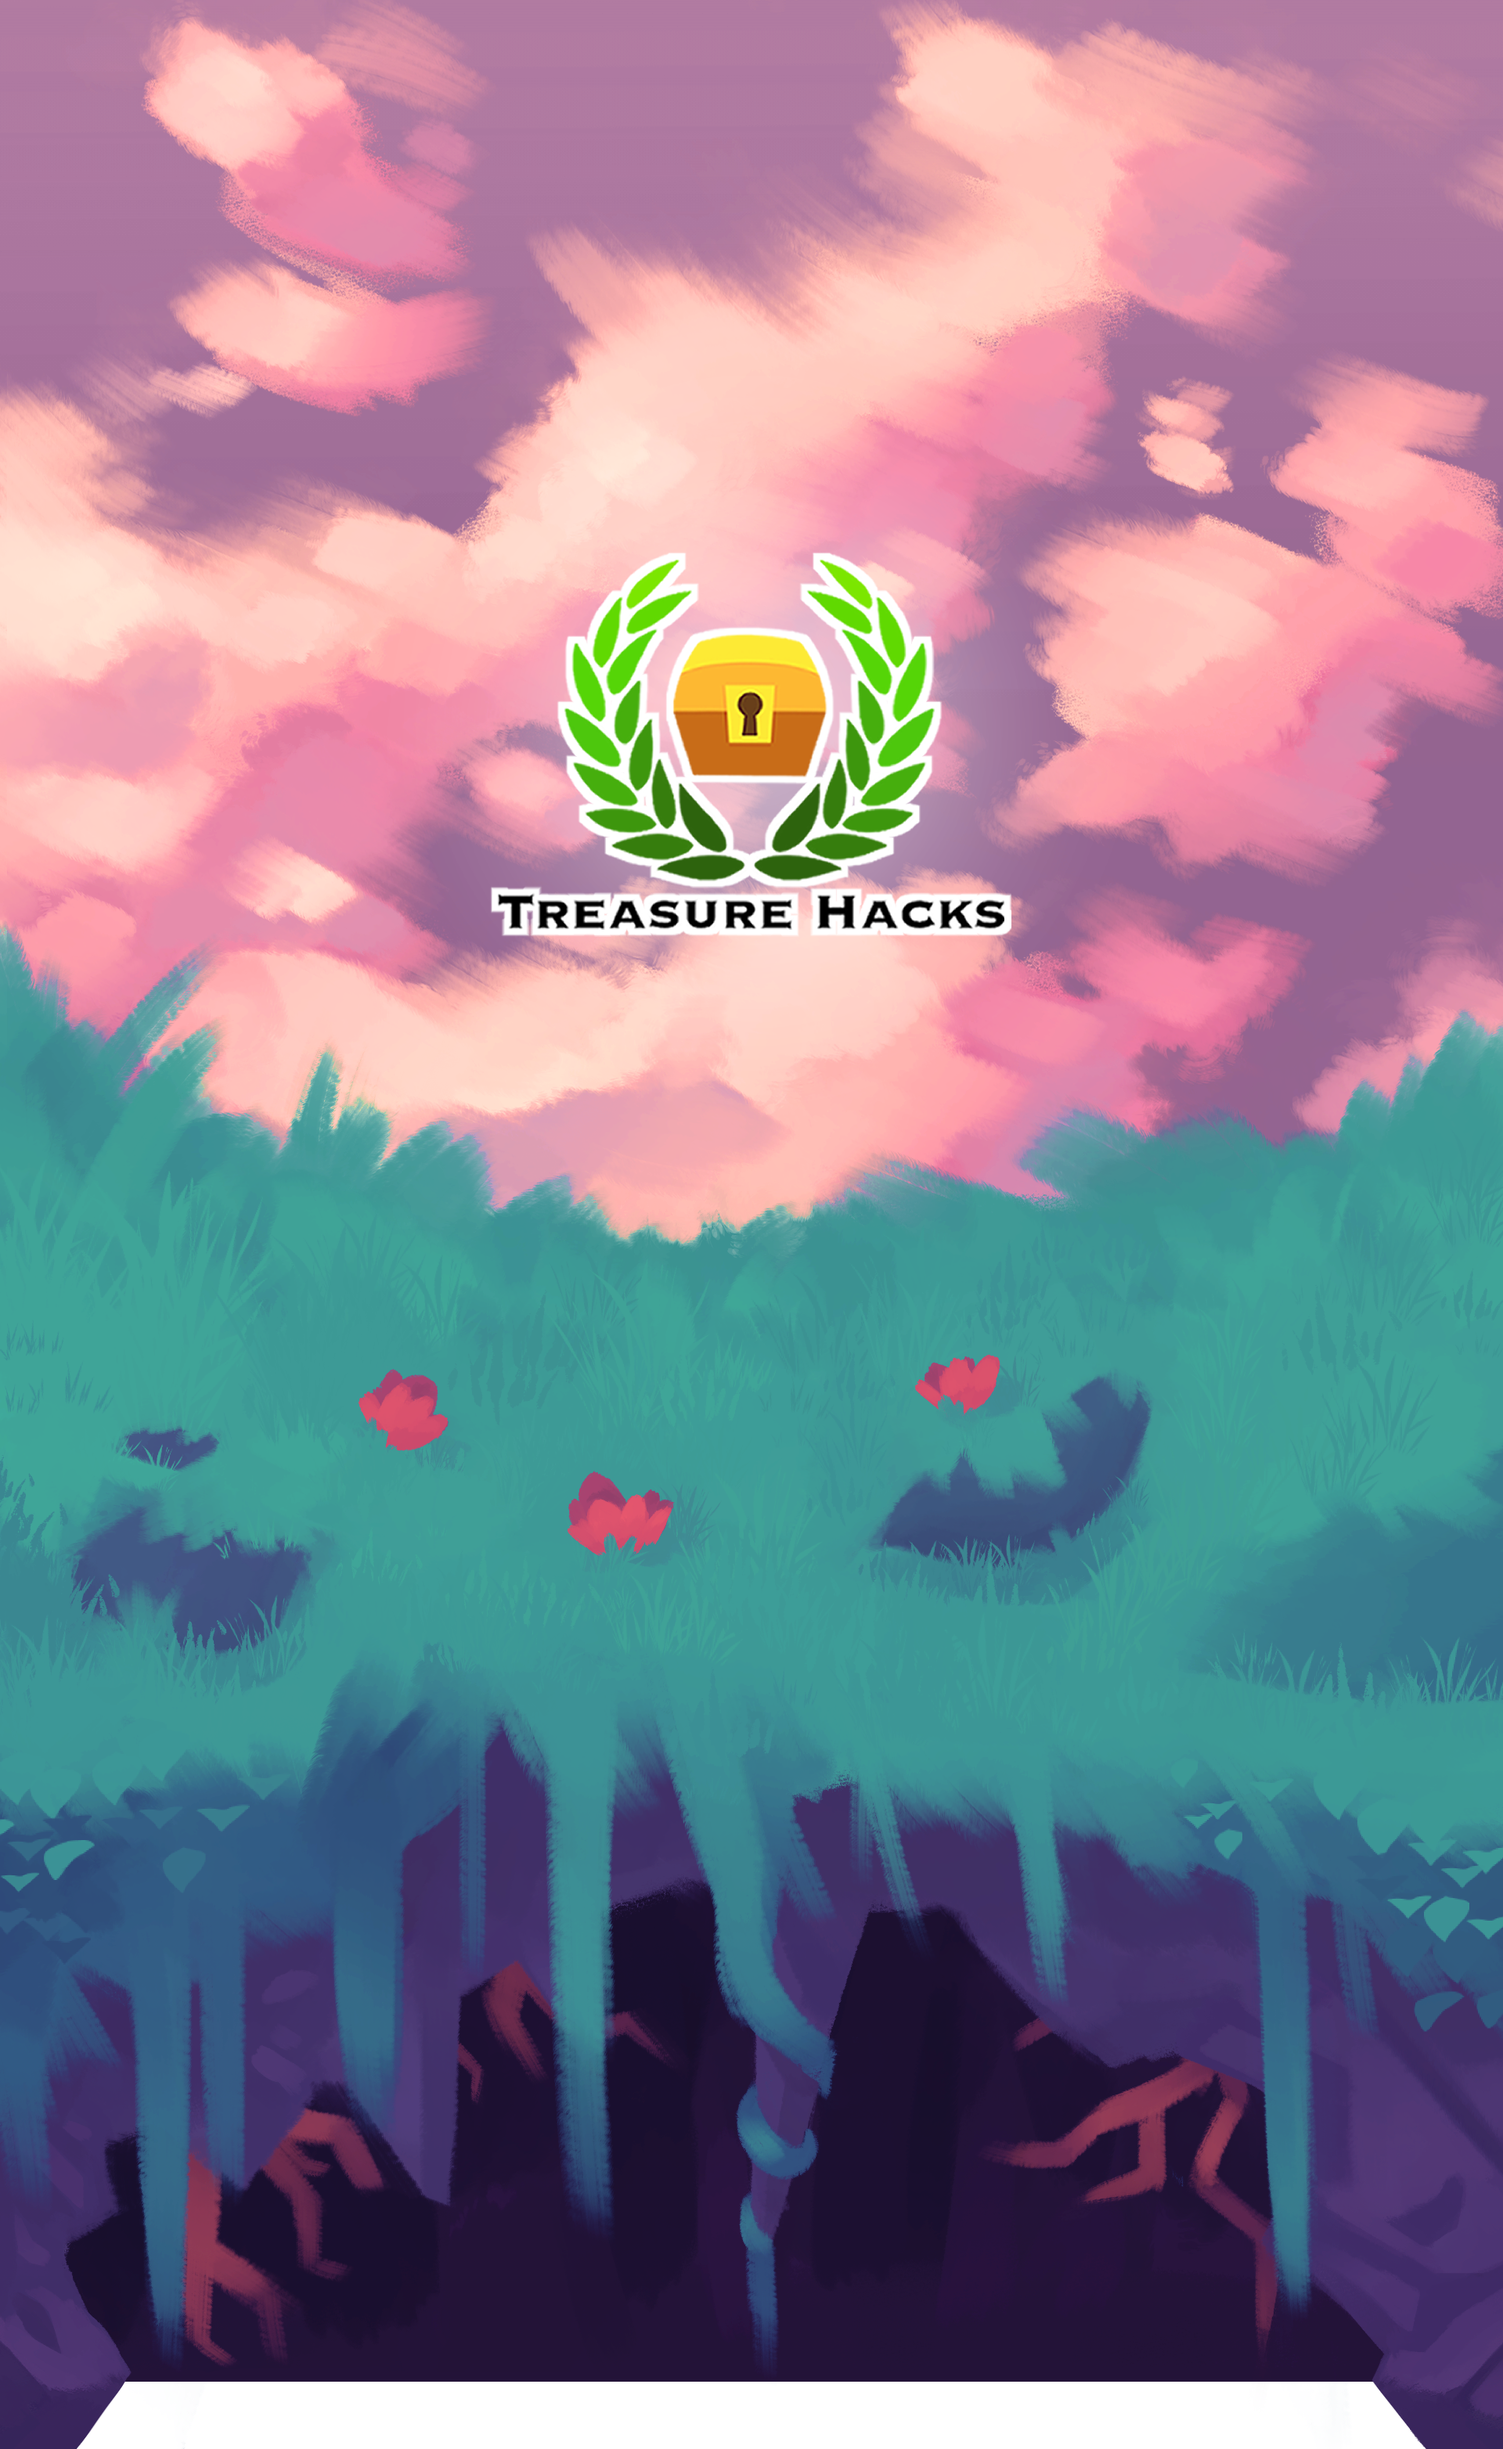
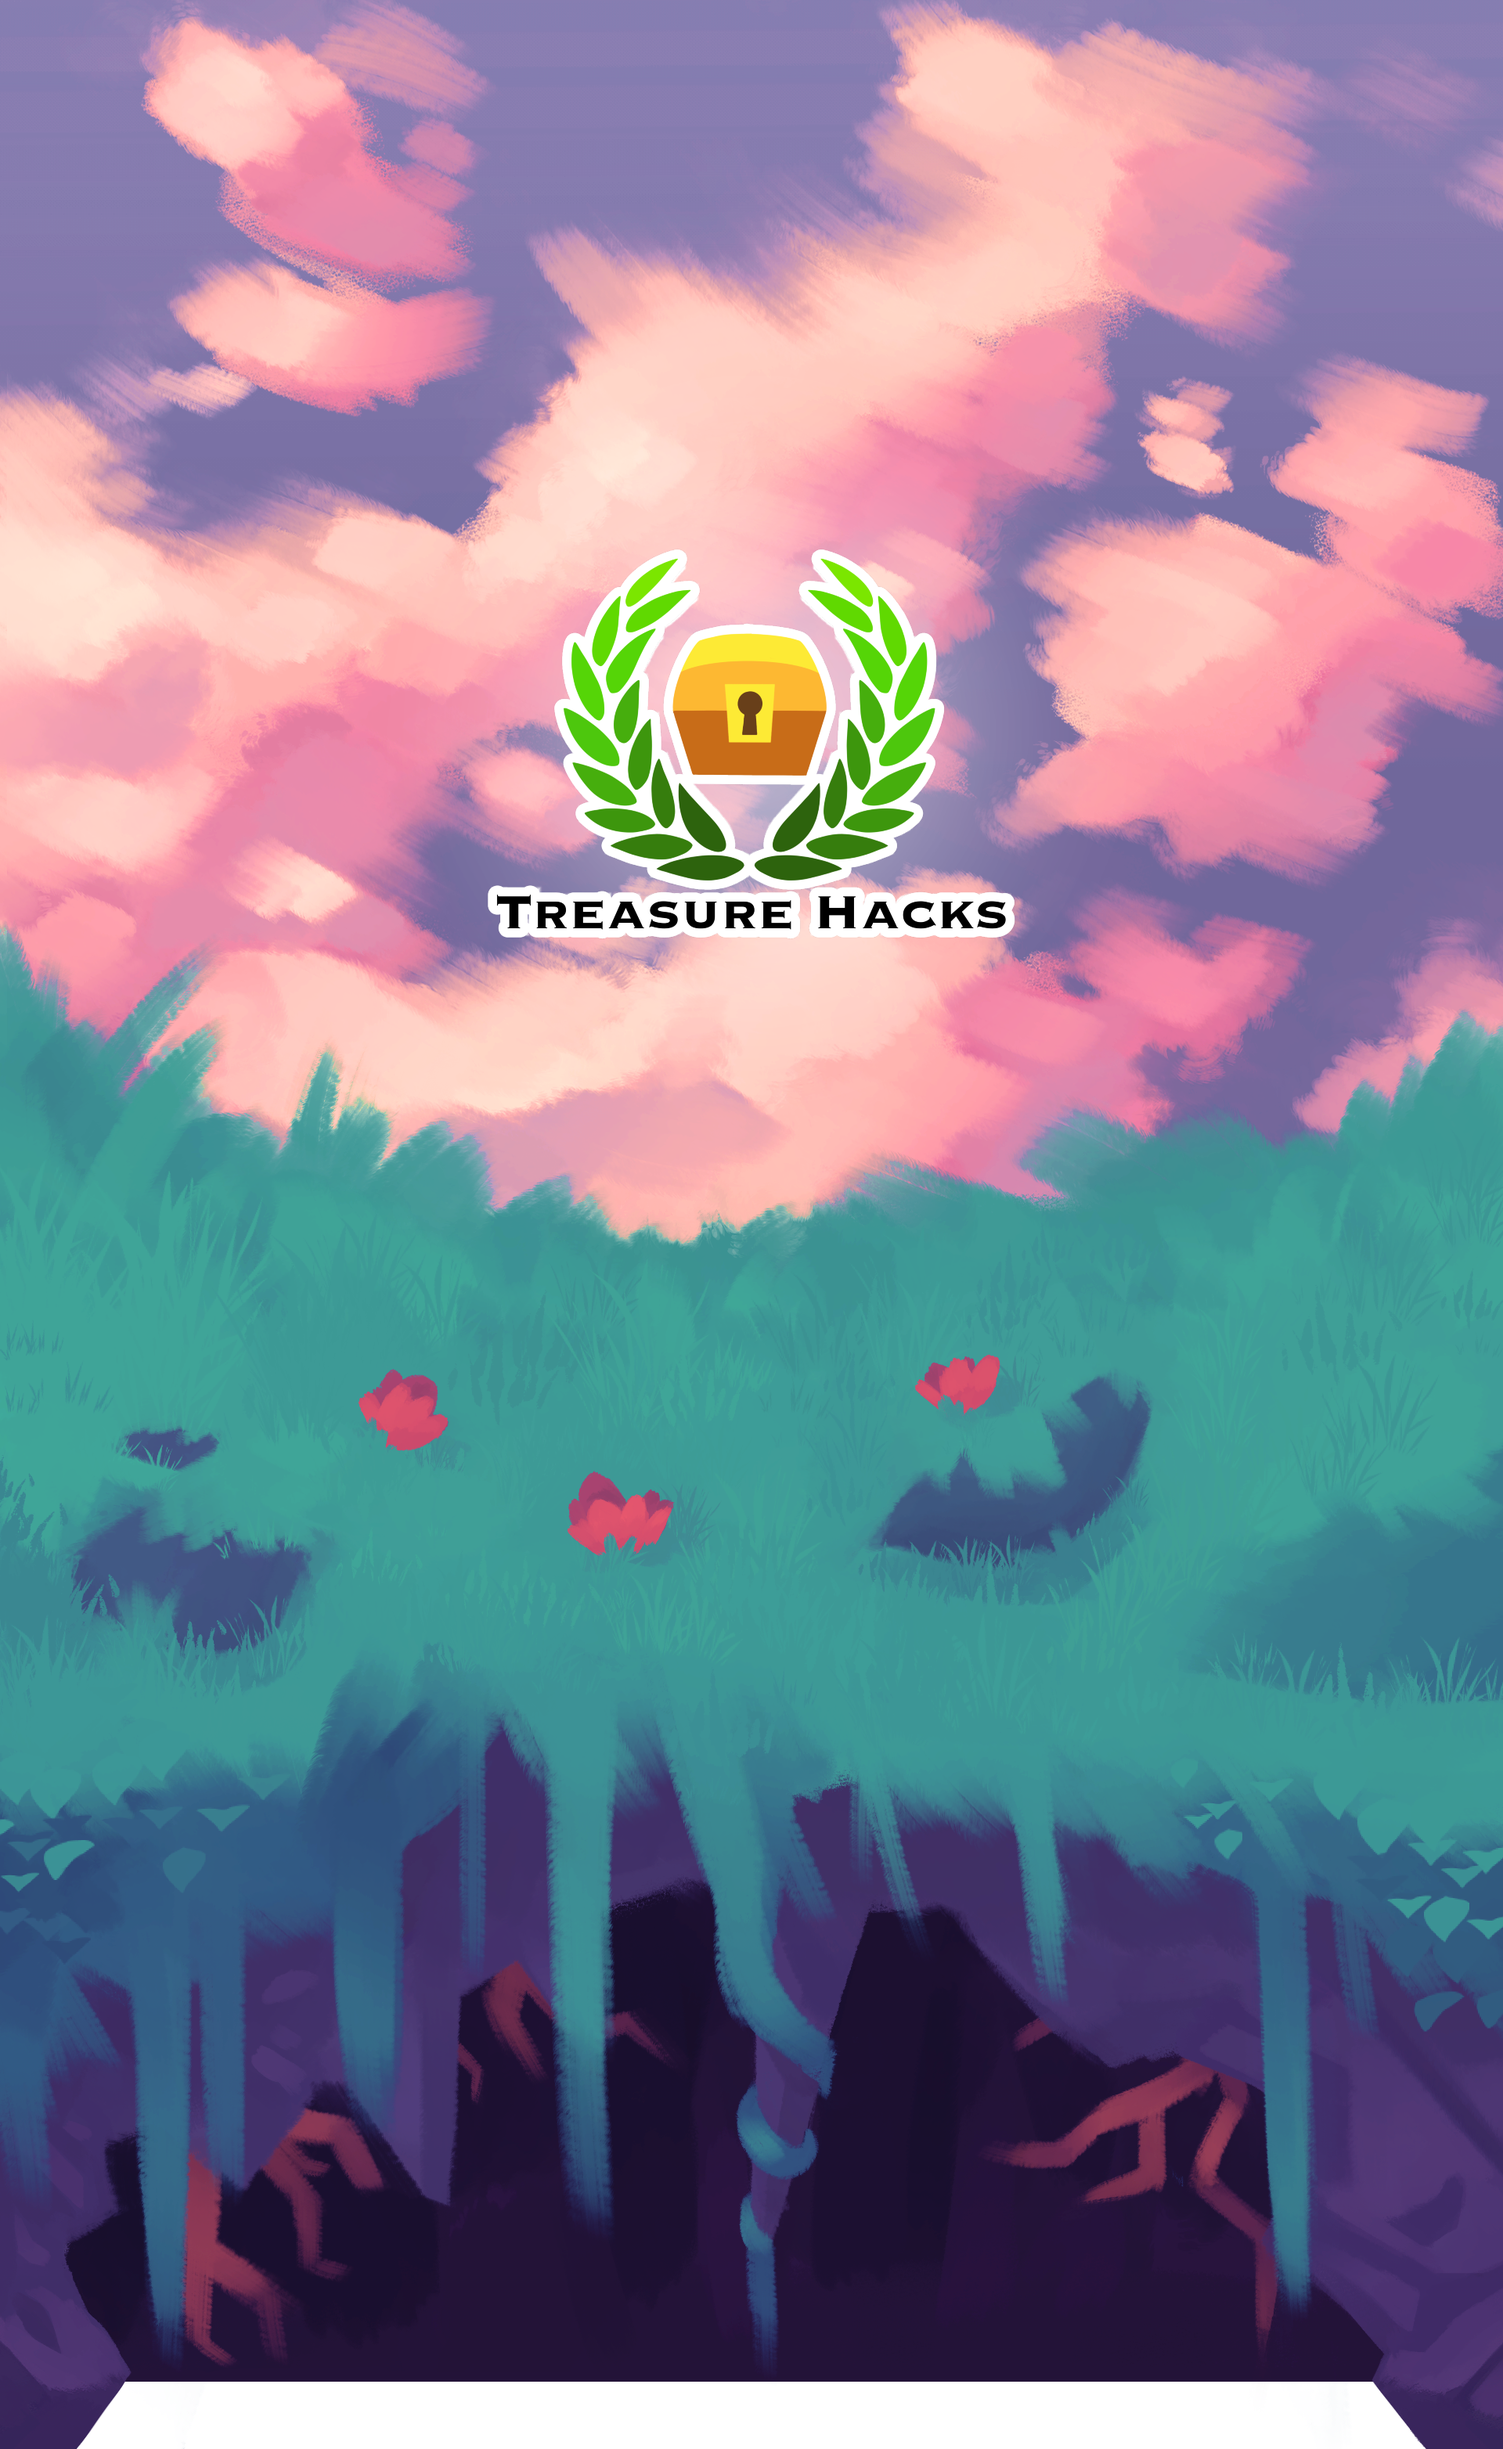
update top image

Changed region(s): [[0.0, 0.0, 1.0, 0.465]]

diff --git a/docs/index.html b/docs/index.html
@@ -33,7 +33,7 @@
 			<a class="content-skip" href="#title">Skip to Content &#x21e3;</a>
 
       <center class="main-header">
-        <img class="image-main" src="images/cave_background/top_new.png"/>
+        <img class="image-main" src="images/cave_background/top.png"/>
         <div class="header-text-container">
           <h2 id="title">Treasure Hacks</h2>
           <!-- THIS ID IS FOR THE SKIP TO CONTENT BUTTON -->
